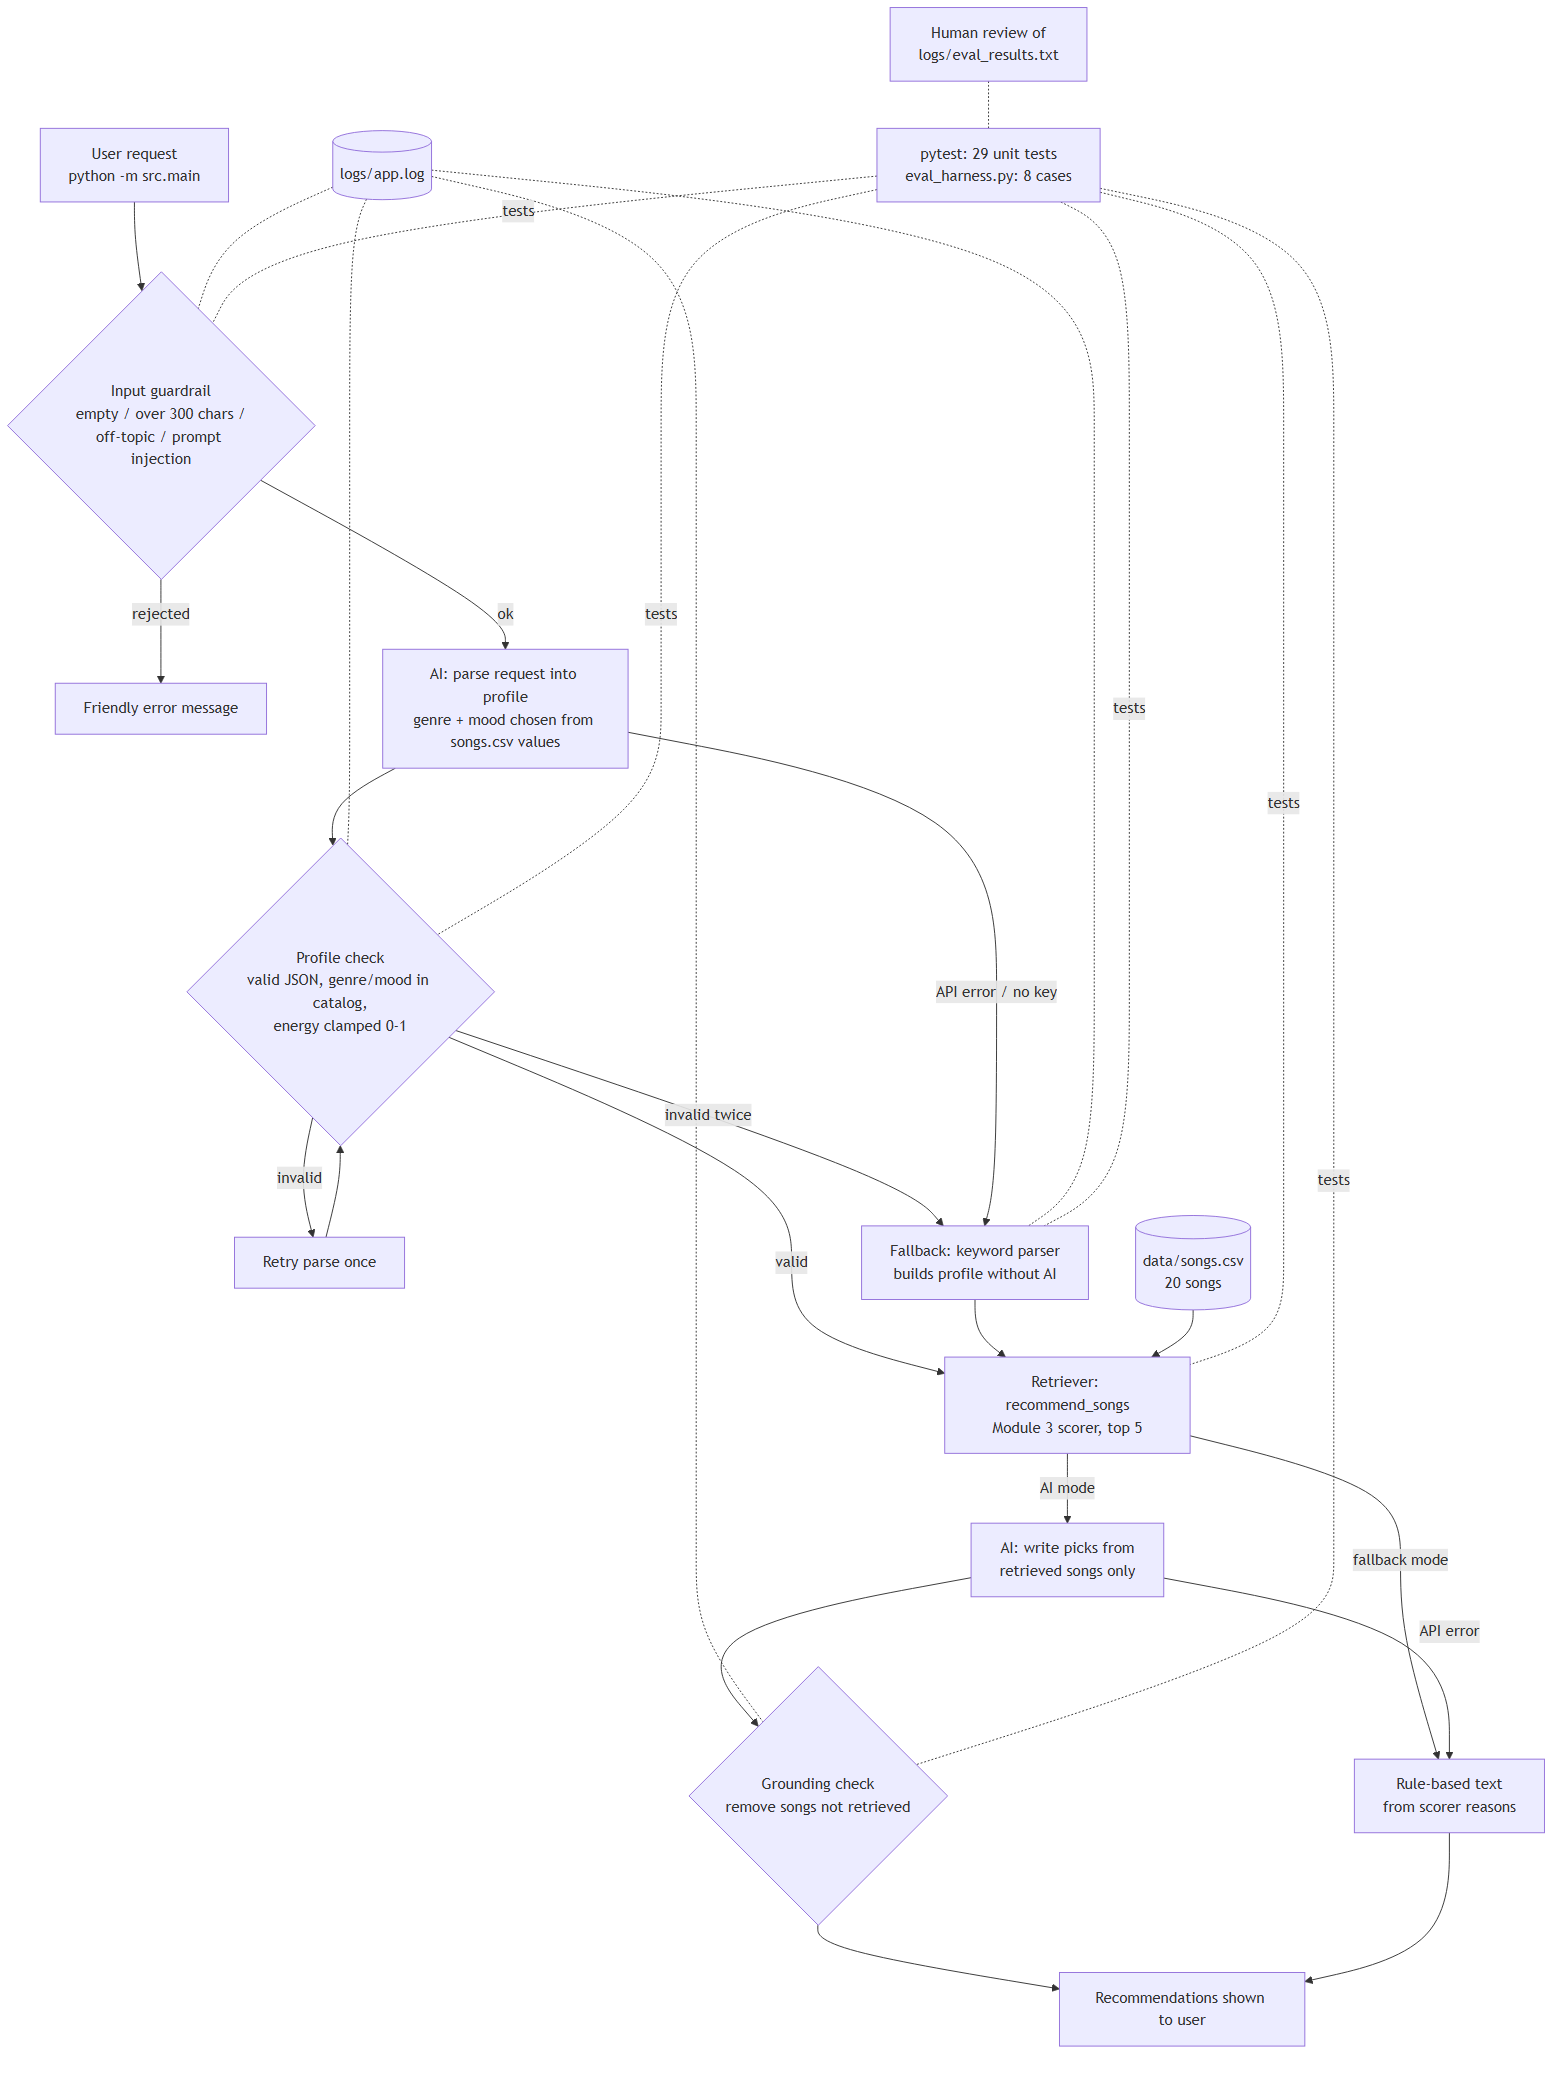
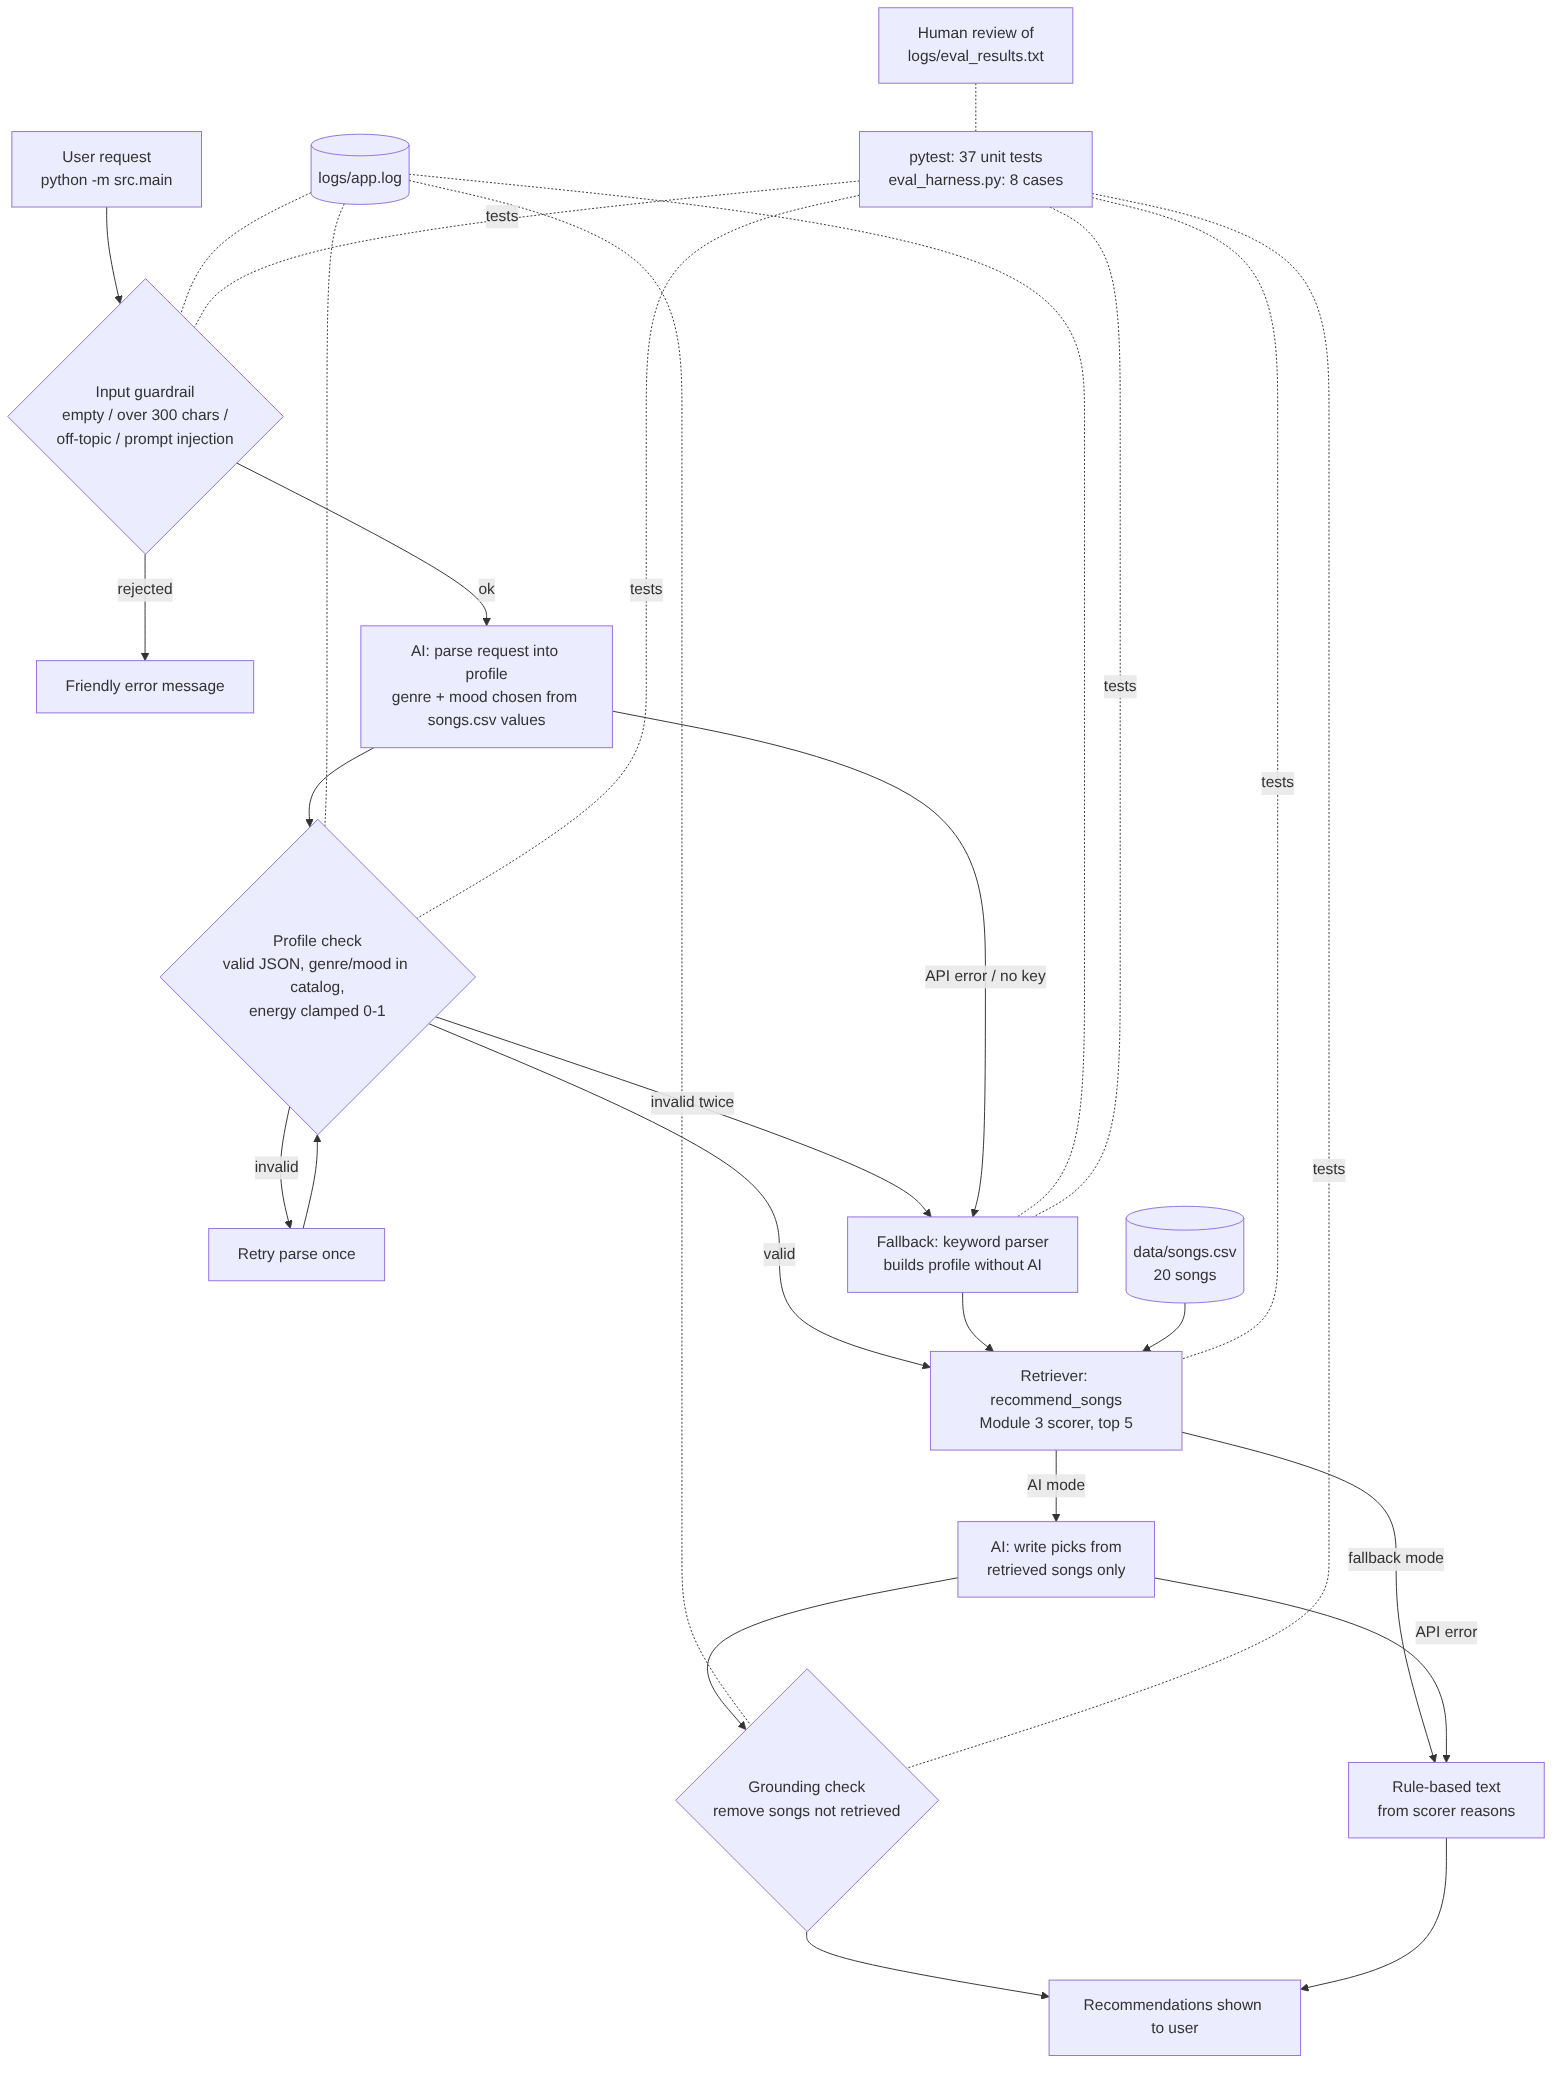
Finish Recommender class, add scorer tests, restore weight experiment
- Recommender.recommend and explain_recommendation now use the real
  scoring instead of the starter TODO stubs
- Add 8 tests for score_song, recommend_songs and the Recommender class
  (37 tests total); update the count in README, model card and diagram
- Move the Module 3 weight experiment into model_card.md, where the
  model card and recommender.py now point
- Drop unused pandas and streamlit from requirements.txt
- Ignore .claude/

Claude-Session: https://claude.ai/code/session_01TodiAsHt2gwZQxMV5hMCoc

diff --git a/tests/test_recommender.py b/tests/test_recommender.py
@@ -1,4 +1,7 @@
-from src.recommender import Song, UserProfile, Recommender
+import pytest
+
+from src.recommender import (MAX_SCORE, Recommender, Song, UserProfile, load_songs,
+                             recommend_songs, score_song)
 
 def make_small_recommender() -> Recommender:
     songs = [
@@ -59,3 +62,71 @@ def test_explain_recommendation_returns_non_empty_string():
     explanation = rec.explain_recommendation(user, song)
     assert isinstance(explanation, str)
     assert explanation.strip() != ""
+
+
+def test_recommender_sorts_by_score_not_by_file_order():
+    # The best match is last in the list, so returning songs[:k] would fail.
+    rec = make_small_recommender()
+    rec.songs.reverse()
+    user = UserProfile(favorite_genre="pop", favorite_mood="happy",
+                       target_energy=0.8, likes_acoustic=False)
+
+    results = rec.recommend(user, k=1)
+
+    assert [song.title for song in results] == ["Test Pop Track"]
+
+
+def test_explain_recommendation_gives_the_real_reasons():
+    rec = make_small_recommender()
+    user = UserProfile(favorite_genre="pop", favorite_mood="happy",
+                       target_energy=0.8, likes_acoustic=False)
+
+    explanation = rec.explain_recommendation(user, rec.songs[0])
+
+    assert "genre matches (pop)" in explanation
+    assert "mood matches (happy)" in explanation
+
+
+# ---------------------------------------------------------------- the retriever
+
+POP_FAN = {"favorite_genre": "pop", "favorite_mood": "happy",
+           "target_energy": 0.82, "likes_acoustic": False}
+POP_SONG = {"genre": "pop", "mood": "happy", "energy": 0.82, "acousticness": 0.18}
+
+
+def test_score_song_perfect_match_gets_max_score():
+    score, reasons = score_song(POP_FAN, POP_SONG)
+    assert score == pytest.approx(MAX_SCORE)
+    assert len(reasons) == 4
+
+
+def test_score_song_ignores_capital_letters_and_spaces():
+    shouty = {**POP_FAN, "favorite_genre": " Pop ", "favorite_mood": "HAPPY"}
+    assert score_song(shouty, POP_SONG)[0] == pytest.approx(MAX_SCORE)
+
+
+def test_score_song_closer_energy_scores_higher():
+    near = {**POP_SONG, "energy": 0.80}
+    far = {**POP_SONG, "energy": 0.30}
+    assert score_song(POP_FAN, near)[0] > score_song(POP_FAN, far)[0]
+
+
+def test_score_song_wrong_genre_loses_the_genre_points():
+    rock = {**POP_SONG, "genre": "rock"}
+    assert score_song(POP_FAN, POP_SONG)[0] - score_song(POP_FAN, rock)[0] == pytest.approx(2.0)
+
+
+def test_recommend_songs_returns_top_k_highest_first():
+    songs = load_songs("data/songs.csv")
+    results = recommend_songs(POP_FAN, songs, k=5)
+    scores = [score for _, score, _ in results]
+
+    assert len(results) == 5
+    assert scores == sorted(scores, reverse=True)
+    assert results[0][0]["title"] == "Sunrise City"
+
+
+def test_recommend_songs_unknown_genre_still_returns_songs():
+    songs = load_songs("data/songs.csv")
+    k_pop_fan = {**POP_FAN, "favorite_genre": "k-pop"}
+    assert len(recommend_songs(k_pop_fan, songs, k=5)) == 5

diff --git a/src/recommender.py b/src/recommender.py
@@ -1,16 +1,16 @@
 import csv
 import math
-from typing import List, Dict, Tuple, Optional
+from dataclasses import asdict, dataclass
+from typing import List, Dict, Tuple
 
 # Scoring weights
-# (Tried genre 1.0 / energy 3.0 as an experiment, see README "Experiments You Tried")
+# (Tried genre 1.0 / energy 3.0 as an experiment, see "Weight experiment" in model_card.md)
 GENRE_WEIGHT = 2.0
 MOOD_WEIGHT = 1.0
 ENERGY_WEIGHT = 1.5
 ACOUSTIC_WEIGHT = 0.5
 ENERGY_SIGMA = 0.15
 MAX_SCORE = GENRE_WEIGHT + MOOD_WEIGHT + ENERGY_WEIGHT + ACOUSTIC_WEIGHT
-from dataclasses import dataclass
 
 @dataclass
 class Song:
@@ -42,19 +42,23 @@ class UserProfile:
 
 class Recommender:
     """
-    OOP implementation of the recommendation logic.
+    OOP wrapper around the same scoring logic as recommend_songs.
     Required by tests/test_recommender.py
     """
     def __init__(self, songs: List[Song]):
         self.songs = songs
 
     def recommend(self, user: UserProfile, k: int = 5) -> List[Song]:
-        # TODO: Implement recommendation logic
-        return self.songs[:k]
+        """Return the k best-matching songs, highest score first."""
+        prefs = asdict(user)
+        ranked = sorted(self.songs, key=lambda song: score_song(prefs, asdict(song))[0],
+                        reverse=True)
+        return ranked[:k]
 
     def explain_recommendation(self, user: UserProfile, song: Song) -> str:
-        # TODO: Implement explanation logic
-        return "Explanation placeholder"
+        """Return the reasons this song scored the way it did for this user."""
+        score, reasons = score_song(asdict(user), asdict(song))
+        return f"Score {score:.2f} / {MAX_SCORE:.2f}: " + ", ".join(reasons)
 
 def load_songs(csv_path: str) -> List[Dict]:
     """Read songs from a CSV file into a list of dicts, converting number columns to int/float."""

diff --git a/model_card.md b/model_card.md
@@ -79,7 +79,7 @@ My system has a "loud song" bubble. Gym Hero, Fiesta de Noche, and Storm Runner 
 
 ## 7. Evaluation  
 
-**How I tested:** I made 7 user profiles: 3 normal ones and 4 tricky ones. I ran `python -m src.main` to get the top 5 for each, checked if the results felt right, and compared profiles side by side. I also ran one experiment where I changed the weights (see "Experiments You Tried" in the README).
+**How I tested:** I made 7 user profiles: 3 normal ones and 4 tricky ones. I ran `python -m src.main` to get the top 5 for each, checked if the results felt right, and compared profiles side by side. I also ran one experiment where I changed the weights (see "Weight experiment" below).
 
 **Profiles I tested:**
 
@@ -384,6 +384,23 @@ Gym Hero also shows up for the rock fan and the sad + high energy profile. It's 
 - **Genre doesn't always win.** For the calm metal fan, a song that fits 3 things beat a song that only fits the genre. That's what I wanted.
 - **Changing the weights made things different, not better.** When I doubled energy and halved genre, the sad listener lost the only sad song from their list completely.
 
+### Weight experiment: half the genre, double the energy
+
+**What I changed:** Genre went from 2.0 to 1.0 points, and energy went from 1.5 to 3.0 points. The max score went from 5.0 to 5.5.
+
+**Did the math still work?** Yes. Every score stayed between 0 and 5.5, and the reasons for each song still added up to its score.
+
+**What happened:** 5 of my 7 profiles kept the same top 5. Only 2 changed:
+
+| Profile | Before | After |
+|---|---|---|
+| Sad + high energy | #1 was Empty Platform, the only blues/sad song | Empty Platform dropped out of the top 5. All 5 songs were just loud songs |
+| Calm acoustic metal fan | #2 was Iron Requiem, a loud metal song | Iron Requiem dropped out. All 5 were calm, acoustic songs |
+
+For High-Energy Pop, Rooftop Lights (happy "indie pop") got much closer to Gym Hero, from 1.05 points behind to only 0.09 behind.
+
+**More accurate or just different?** Just different. The metal fan's list got better, but the sad listener lost the only sad song. With energy worth so much, the system mostly ranks by loudness. It still put a dark rock song in the happy pop fan's top 5. So I went back to genre 2.0 and energy 1.5.
+
 ---
 
 ## 8. Future Work  
@@ -463,7 +480,7 @@ From `python eval_harness.py` (saved in `logs/eval_results.txt`). Each case chec
 
 **7/8 passed.** The only failure is the missing-genre case explained above. I decided not to fix it before submitting, so the eval shows the real behavior. A possible fix is letting the AI answer "none" for genre, so the scorer ignores genre when the user didn't ask for one.
 
-I also have 29 unit tests that run without the API. All of them pass.
+I also have 37 unit tests that run without the API. All of them pass.
 
 ---
 

diff --git a/README.md b/README.md
@@ -44,7 +44,7 @@ flowchart TD
     RB --> OUT
 
     LOG[(logs/app.log)] -.- G1 & G2 & G3 & KW
-    T[pytest: 29 unit tests<br/>eval_harness.py: 8 cases] -. tests .- G1 & G2 & G3 & RET & KW
+    T[pytest: 37 unit tests<br/>eval_harness.py: 8 cases] -. tests .- G1 & G2 & G3 & RET & KW
     H[Human review of<br/>logs/eval_results.txt] -.- T
 ```
 
@@ -279,12 +279,12 @@ INFO run_end status=ok mode=fallback
 
 ## Testing Summary
 
-**Unit tests:** 29 tests (27 new + 2 from Module 3) in `tests/`. They mock the AI, so they never call the API. They cover all three guardrails, the retry, the fallback when the AI fails, the grounding check removing an invented song, and blocked input never reaching the AI.
+**Unit tests:** 37 tests (35 new + 2 from Module 3) in `tests/`. They mock the AI, so they never call the API. They cover all three guardrails, the retry, the fallback when the AI fails, the grounding check removing an invented song, blocked input never reaching the AI, and the retriever's scoring and ranking.
 
 ```
 $ pytest
-.............................                                            [100%]
-29 passed in 1.11s
+.....................................                                    [100%]
+37 passed in 0.04s
 ```
 
 **Evaluation:** `eval_harness.py` runs the real system on 8 preset requests and checks that the AI's genre/mood are reasonable, every recommended song was retrieved, and bad inputs are blocked. Full table in [`logs/eval_results.txt`](logs/eval_results.txt) and in the model card.
